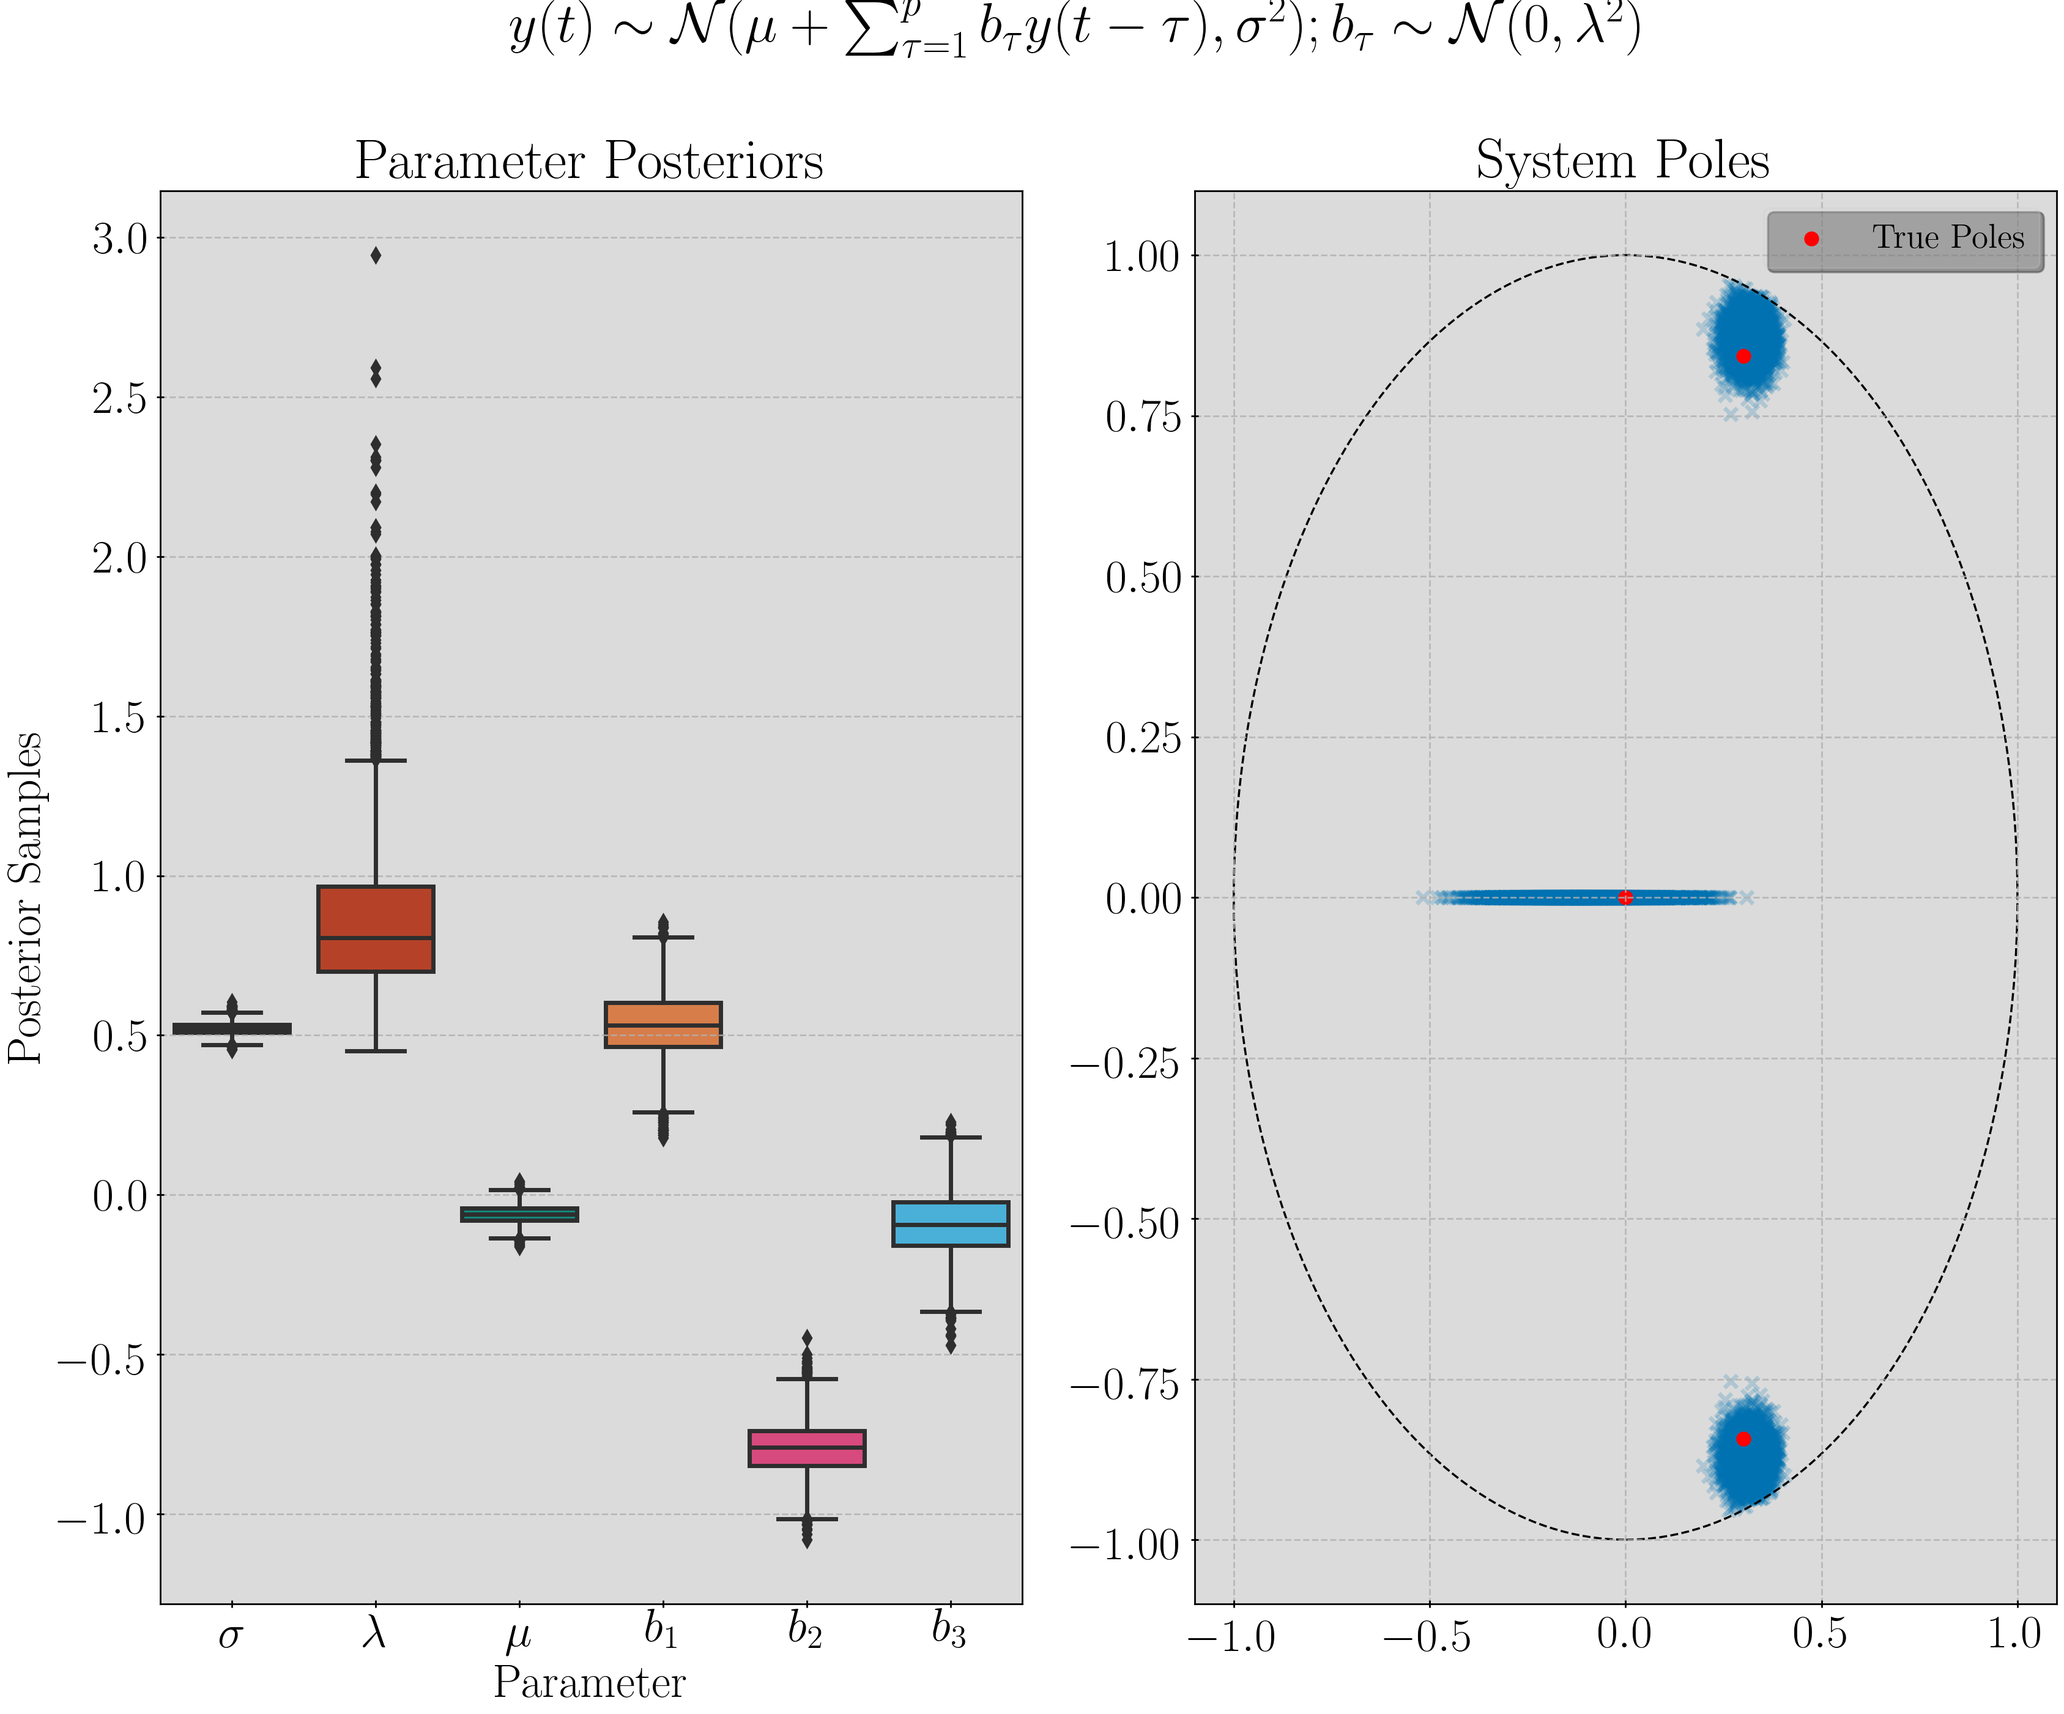
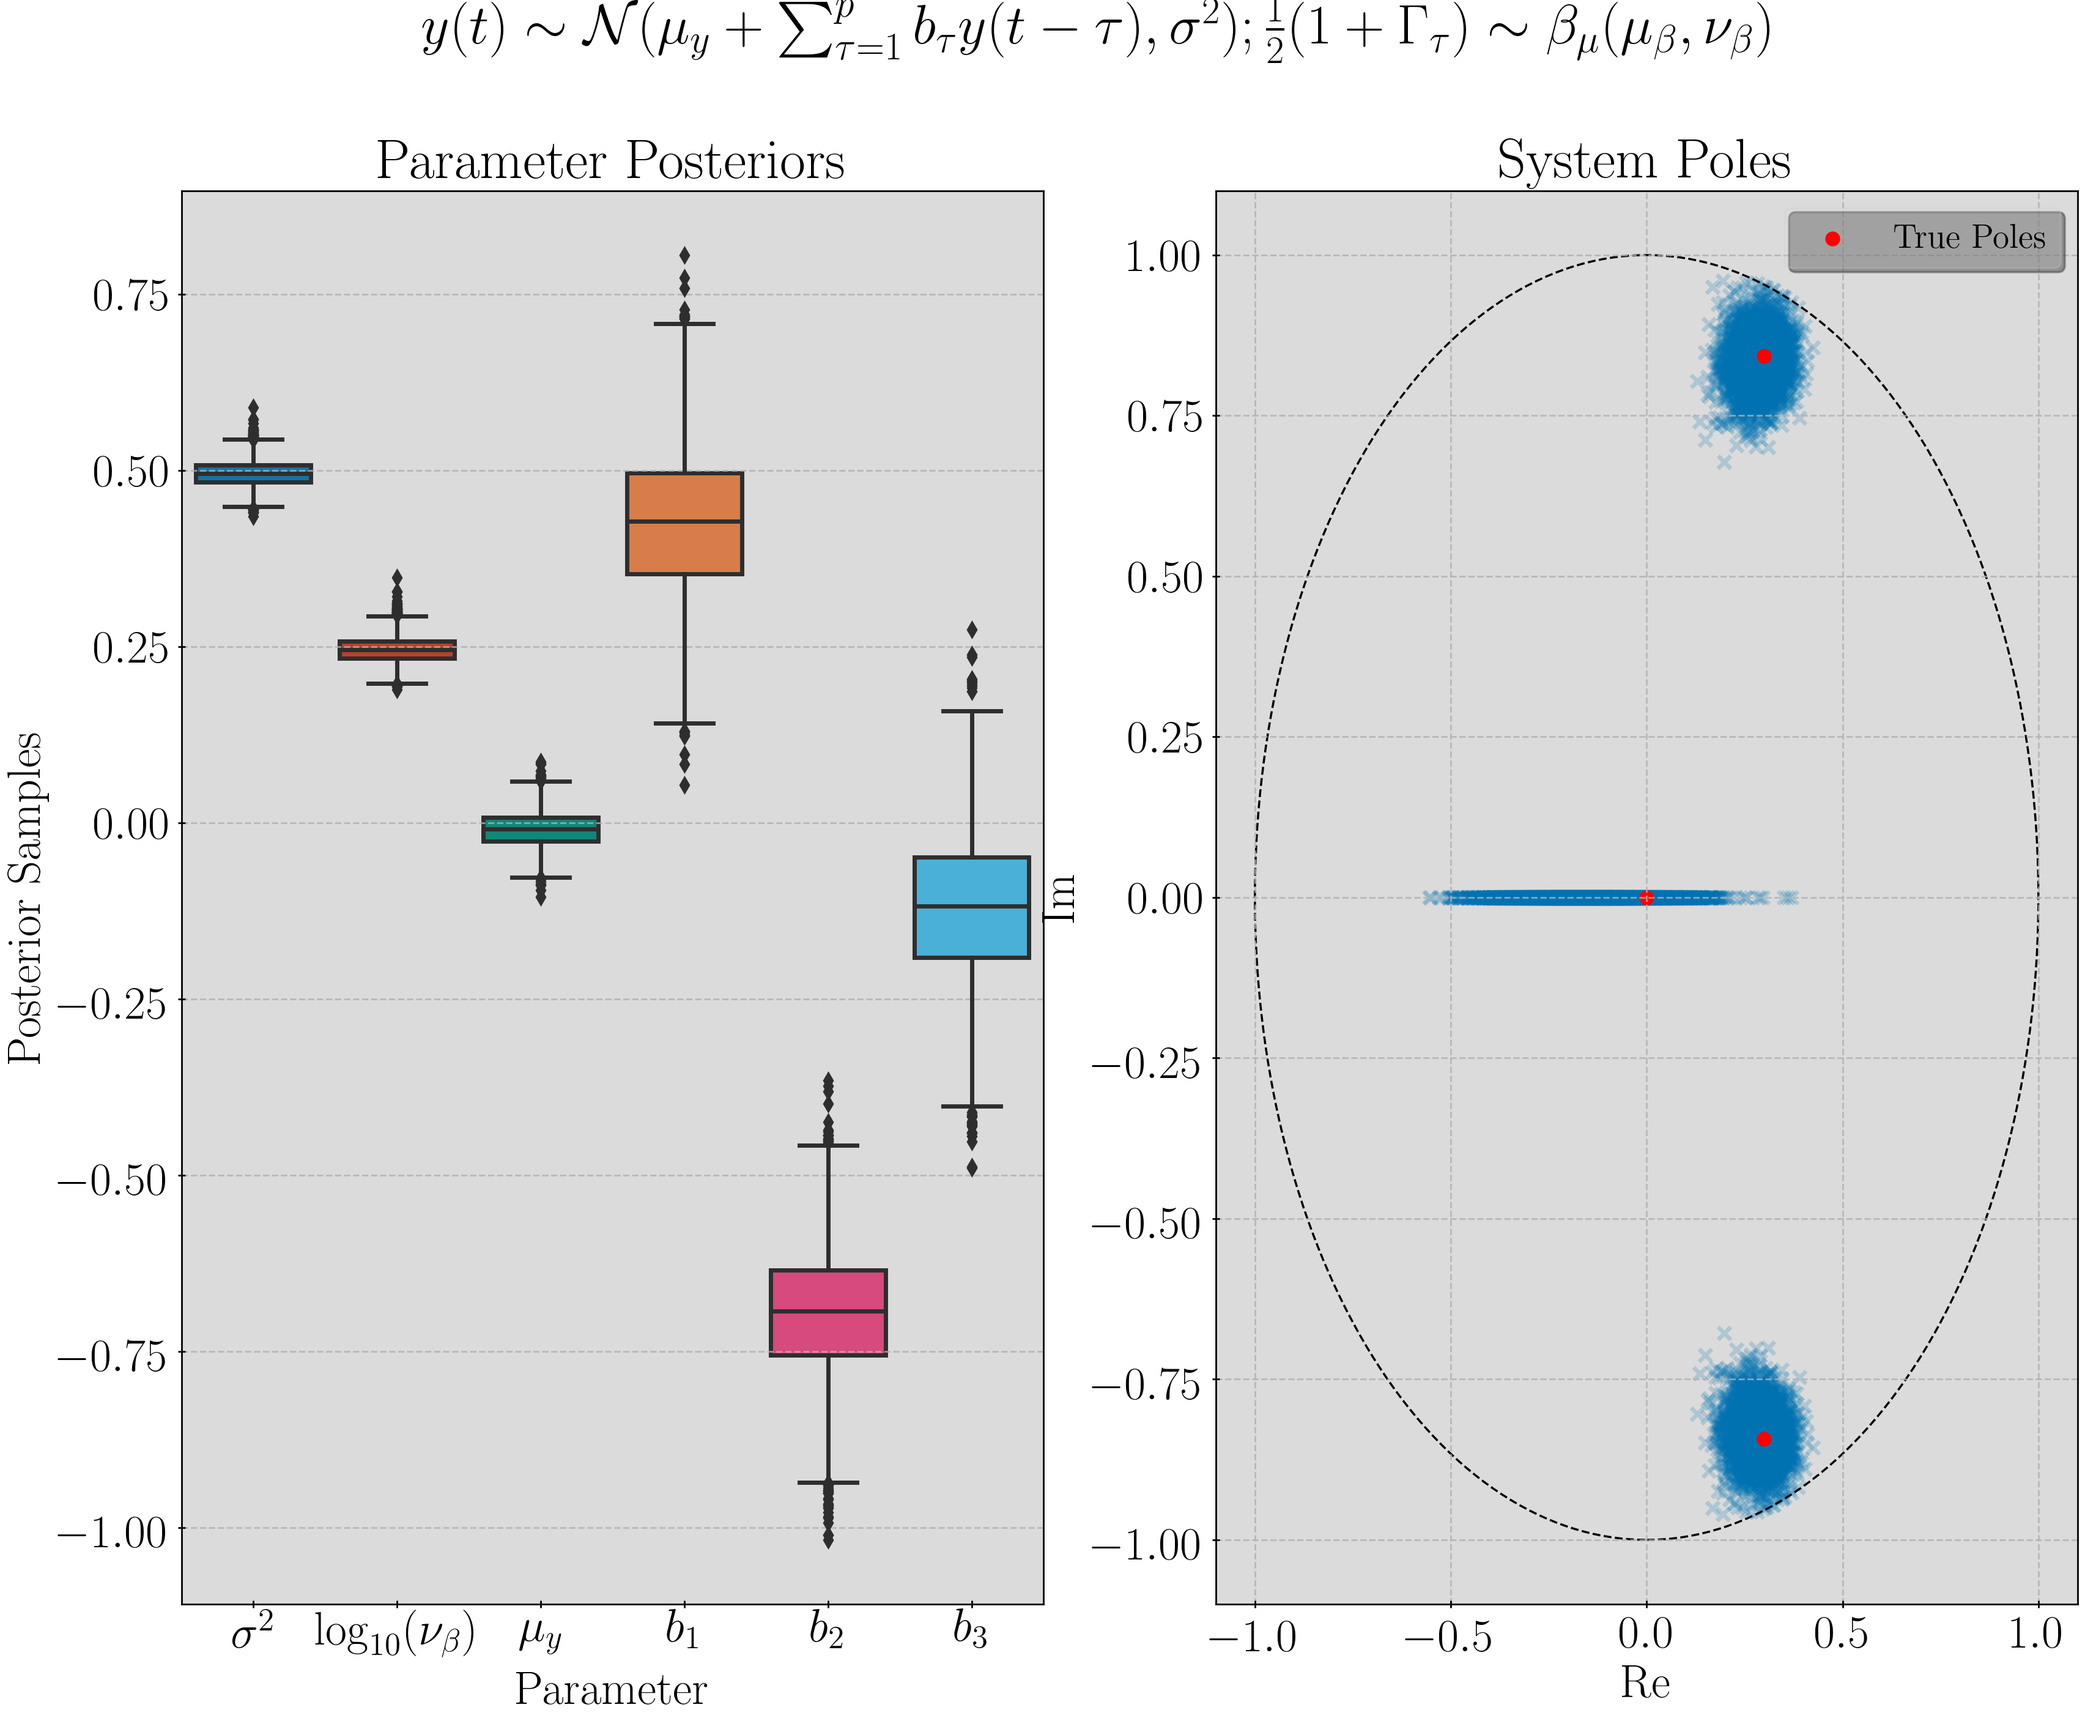
More sensible priors

diff --git a/stanlearn/time_series/ar.py b/stanlearn/time_series/ar.py
@@ -1,5 +1,4 @@
 import os
-from copy import deepcopy
 
 import seaborn as sns
 import matplotlib.pyplot as plt
@@ -9,7 +8,6 @@ import numpy as np
 from numpy.polynomial.polynomial import polyroots
 
 from sklearn.base import RegressorMixin, BaseEstimator
-from sklearn.exceptions import NotFittedError
 from sklearn.preprocessing import StandardScaler
 
 from stanlearn.base import StanCacheMixin
@@ -45,47 +43,12 @@ class BayesAR(BaseEstimator, RegressorMixin, StanCacheMixin):
             self._X_ss = StandardScaler()
         return
 
-    def _posterior(self, X, **stan_fitting_kwargs):
-        N, M = X.shape
-
-        if self.normalize:
-            X = self._X_ss.transform(X)
-
-        # y0, beta, sigma, nu = self._get_param_posterior()
-
-        mem_samples = len(y0) * 8 * N / 1e6
-        ss = int(1 + (mem_samples // self.max_samples_mem))  # Subsample
-        K = len(y0[::ss])
-
-        data = {"N": N, "M": M, "K": K}
-        fit_kwargs = self._setup_predict_kwargs(data, stan_fitting_kwargs)
-        fit_kwargs["iter"] = 1
-        fit_kwargs["chains"] = 1
-
-        predictions = self.predict_model.sampling(**fit_kwargs,
-                                                  algorithm="Fixed_param")
-        y_samples = predictions.extract("y")["y"][0, ...]
-        y_hat = predictions.extract("y_hat")["y_hat"].ravel()
-
-        if self.normalize:
-            y_samples = np.vstack([self._y_ss.inverse_transform(y_s)
-                                   for y_s in y_samples])
-            y_hat = self._y_ss.inverse_transform(y_hat)
-        return y_hat, y_samples
-
-    def _get_aram_posterior(self):
-        if self._fit_results is None:
-            raise NotFittedError("Model isn't fit!")
-        df = self._fit_results.to_dataframe()
-        return
-
     def fit(self, X, y=None, sample_weight=None, **stan_fitting_kwargs):
         """
         "Fit" the model, that is, sample from the posterior.
 
         params:
-            X (n_examples, m_features): Regressors
-            y (n_examples): The targets
+            X (n_examples, m_features): Signal to fit, T x 1
             sample_weight: NotImplemented
             stan_fitting_kwargs: To be passed to pystan's .sampling method
         """
@@ -99,7 +62,6 @@ class BayesAR(BaseEstimator, RegressorMixin, StanCacheMixin):
             X = self._X_ss.fit_transform(X)
 
         X = X.ravel()
-        # data = {"N": N, "M": M, "X": X, "y": y}
         data = {"T": T, "p": self.p, "y": X}
 
         fit_kwargs = self._setup_predict_kwargs(data, stan_fitting_kwargs)
@@ -141,12 +103,15 @@ class BayesAR(BaseEstimator, RegressorMixin, StanCacheMixin):
         param_df = self._fit_results.to_dataframe()
         p = self.p
 
-        params = (["sigma", "lam", "mu"] +
+        params = (["sigma", "nu_beta", "mu"] +
                   [f"b[{tau}]"for tau in range(1, p + 1)])
-        names = (["$\sigma$", "$\lambda$", "$\mu$"] + 
-                  [f"$b_{tau}$" for tau in range(1, p + 1)])
+        names = (["$\\sigma^2$", "$\\mathrm{log}_{10}(\\nu_\\beta)$",
+                  "$\\mu_y$"] +
+                 [f"$b_{tau}$" for tau in range(1, p + 1)])
         rename = {frm: to for frm, to in zip(params, names)}
 
+        param_df.loc[:, "nu_beta"] = np.log10(param_df.loc[:, "nu_beta"])
+        param_df.loc[:, "nu_beta"] = param_df.loc[:, "sigma"]**2
         param_df = param_df.loc[:, params]\
             .rename(rename, axis=1)
 
@@ -154,9 +119,10 @@ class BayesAR(BaseEstimator, RegressorMixin, StanCacheMixin):
         ax = axes.ravel()
 
         # Plot parameters
-        fig.suptitle("$y(t) \sim \mathcal{N}(\mu + \sum_{\\tau = 1}^p "
-                     "b_\\tau y(t - \\tau), \sigma^2); "
-                     "b_\\tau \sim \mathcal{N}(0, \lambda^2)$")
+        fig.suptitle("$y(t) \\sim \\mathcal{N}(\\mu_y + \\sum_{\\tau = 1}^p "
+                     "b_\\tau y(t - \\tau), \\sigma^2); "
+                     "\\frac{1}{2}(1 + \Gamma_\\tau) \\sim "
+                     "\\beta_\\mu(\\mu_\\beta, \\nu_\\beta)$")
 
         ax[0].set_title("Parameter Posteriors")
         sns.boxplot(
@@ -174,6 +140,8 @@ class BayesAR(BaseEstimator, RegressorMixin, StanCacheMixin):
         ax[1].scatter(roots.real, roots.imag, color="#0072B2",
                       marker="x", alpha=0.2)
         ax[1].set_title("System Poles")
+        ax[1].set_xlabel("Re")
+        ax[1].set_ylabel("Im")
 
         if show:
             plt.show()
